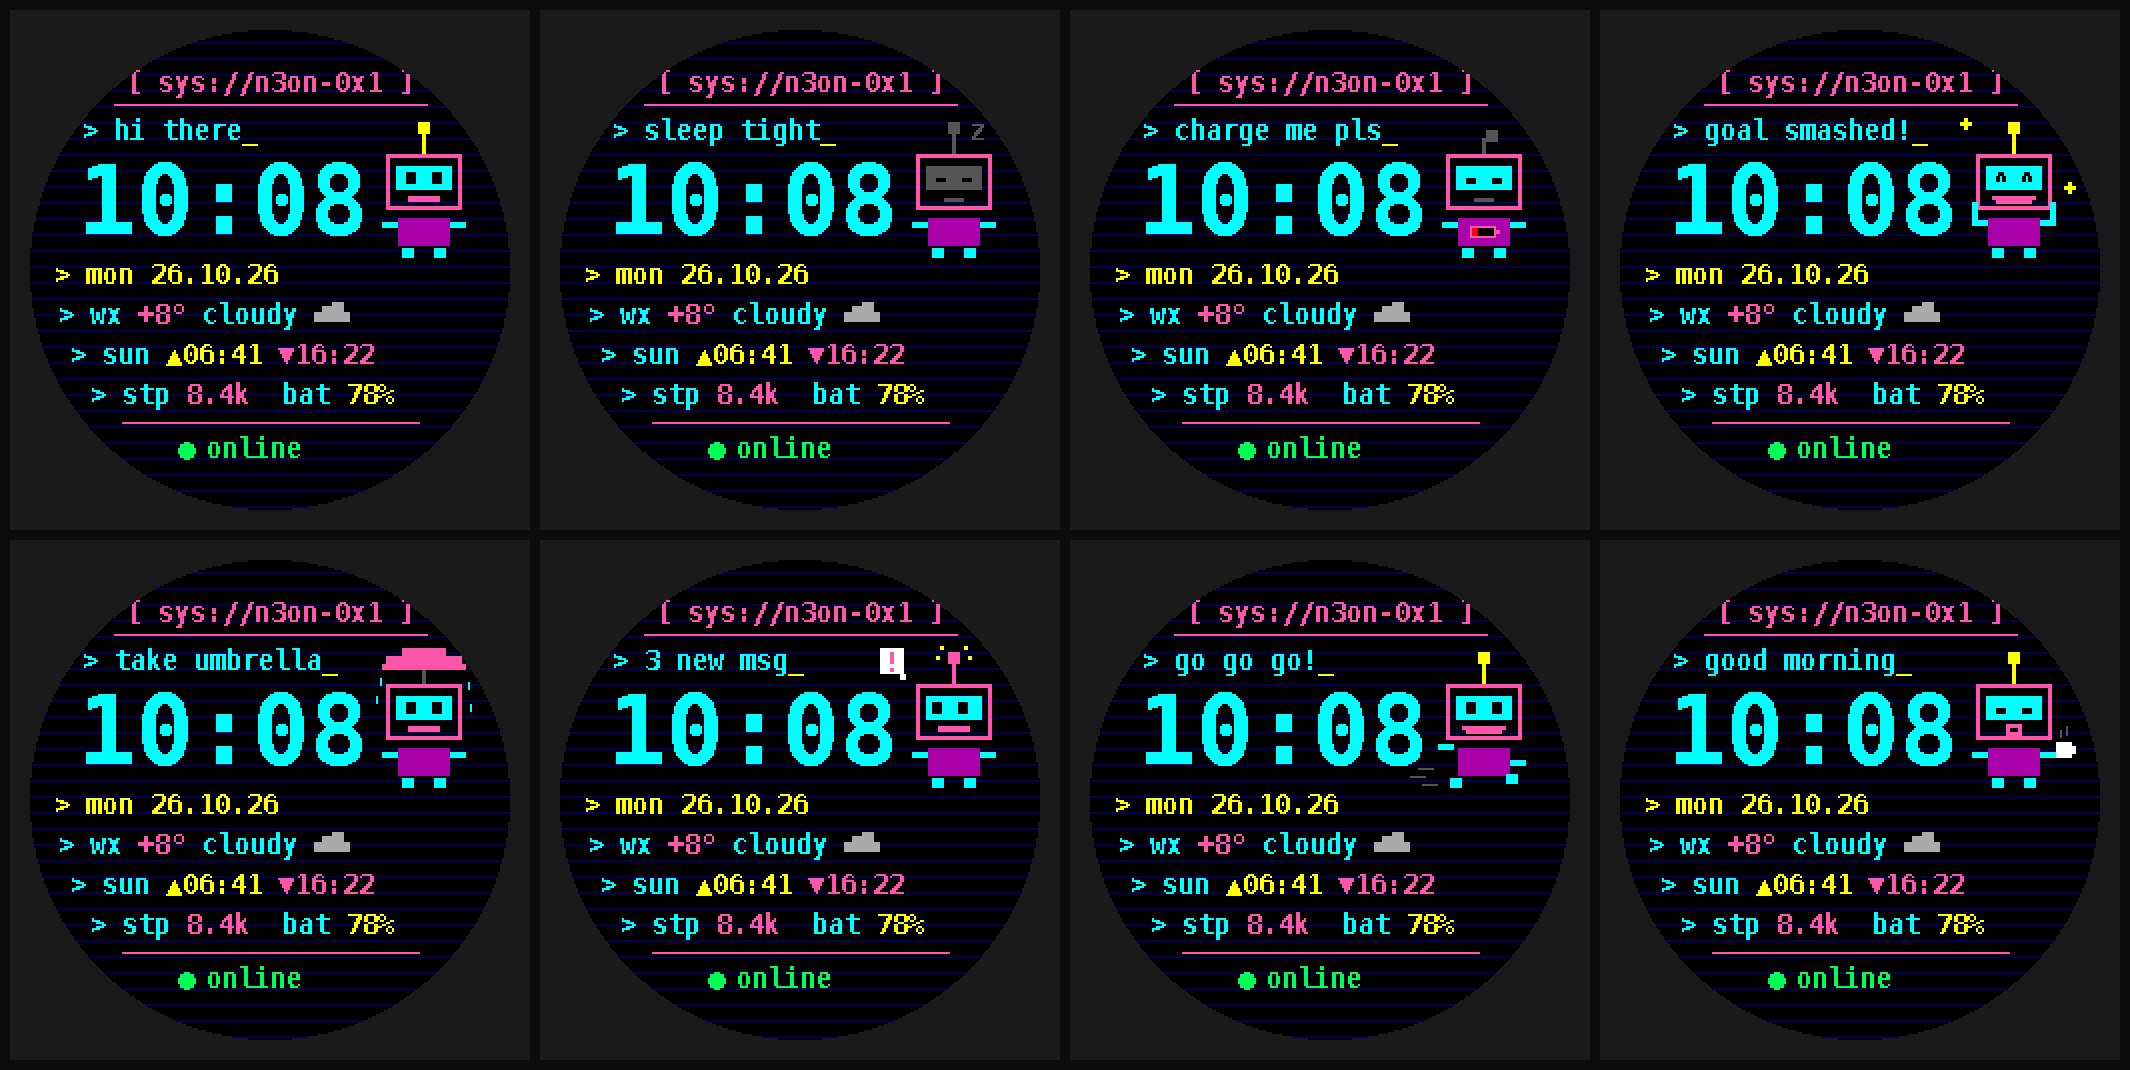
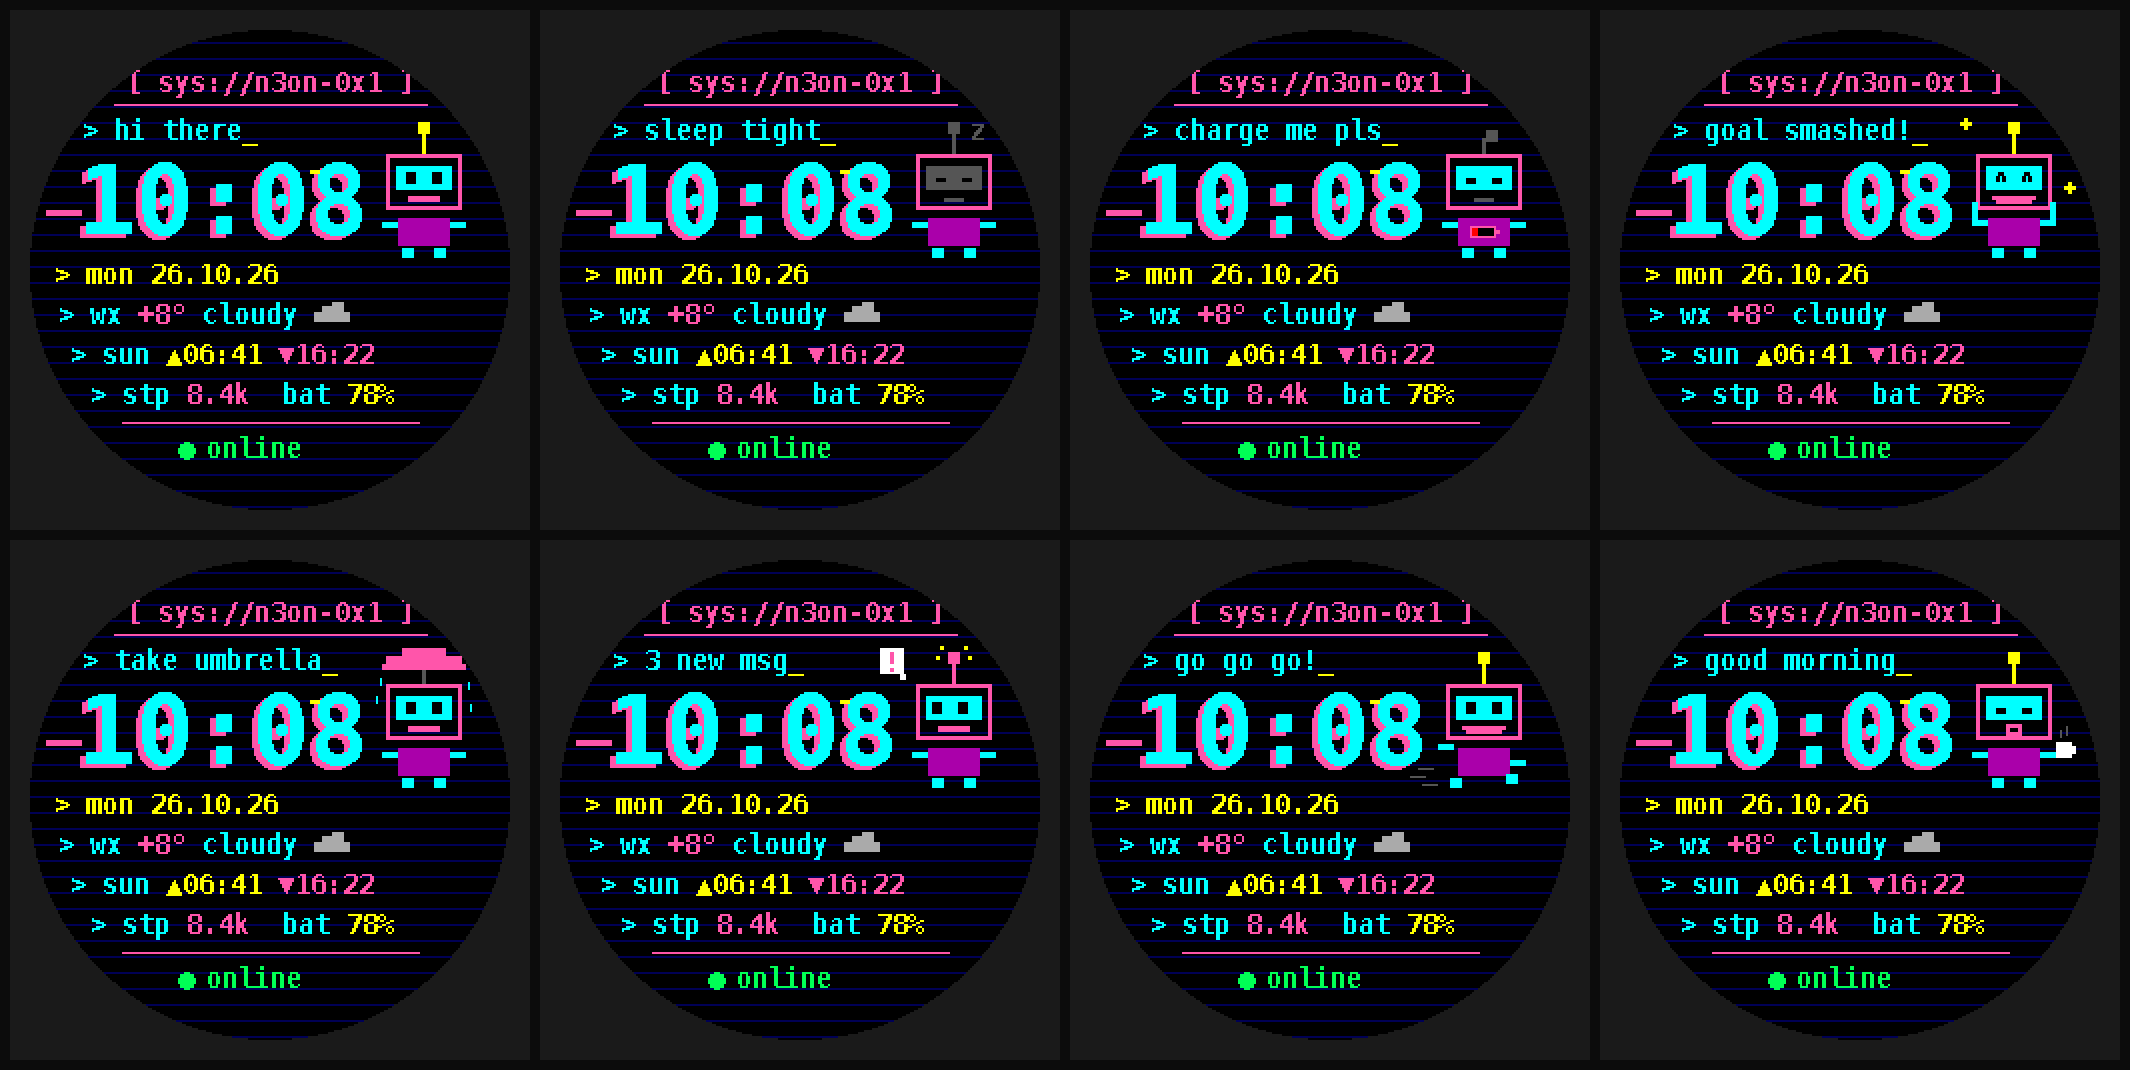
Glitch setting: always (default) / on wrist raise / off
Claude-Session: https://claude.ai/code/session_01UPPXaJYamaHbEYryx3rSdp

diff --git a/scripts/preview_n3on.py b/scripts/preview_n3on.py
@@ -160,7 +160,7 @@ def holiday_overlay(d, x, y, pal, holiday, mood):
 
 
 def face(pal, time="21:24", mood="night", wx=("+8°", "cloudy"), raw=False, holiday=None,
-         phrase="hi there", glitch=False, online=True):
+         phrase="hi there", glitch=True, online=True):
     img = Image.new("RGB", (240, 240), (0, 0, 0))
     d = ImageDraw.Draw(img)
     hc = pal is PALS[3]

diff --git a/templates/n3on-terminal/store/listing.md b/templates/n3on-terminal/store/listing.md
@@ -18,7 +18,7 @@
 ## EN (default)
 **Short:** Cyberpunk terminal watch face with a pixel bot that reacts to your day.
 
-A retro-futuristic command line on your wrist. Neon time with a glitch burst on wrist raise, scanlines and a tiny original pixel robot that sleeps after sunset, cheers when you hit your step goal and looks tired when the battery is low.
+A retro-futuristic command line on your wrist. Glitched neon time, scanlines and a tiny original pixel robot that sleeps after sunset, cheers when you hit your step goal and looks tired when the battery is low.
 
 Shows:
 • Time (follows your 12/24h setting) and date
@@ -33,7 +33,7 @@ Shows:
 
 Settings (Garmin Connect app → Connect IQ):
 • Themes: Neon, Amber CRT, Green terminal, High contrast
-• Scanlines on/off, glitch on/off, bot on/off, bot emotions on/off, holiday looks on/off
+• Scanlines on/off, glitch (always / on wrist raise / off), bot on/off, bot emotions on/off, holiday looks on/off
 • What the bot says (auto / my phrase / mixed), bot language, my phrase, typing animation
 • Latitude/Longitude for sunrise and sunset (0 = automatic)
 
@@ -49,7 +49,7 @@ Not affiliated with or endorsed by Garmin.
 ## PL
 **Krótko:** Cyberpunkowa tarcza w stylu terminala z pikselowym robotem, który reaguje na Twój dzień.
 
-Retro-futurystyczny wiersz poleceń na nadgarstku. Neonowy czas z efektem glitch po podniesieniu ręki, linie skanowania i mały, oryginalny pikselowy robot: zasypia po zachodzie słońca, cieszy się po osiągnięciu celu kroków i jest zmęczony przy słabej baterii.
+Retro-futurystyczny wiersz poleceń na nadgarstku. Neonowy czas z efektem glitch, linie skanowania i mały, oryginalny pikselowy robot: zasypia po zachodzie słońca, cieszy się po osiągnięciu celu kroków i jest zmęczony przy słabej baterii.
 
 Wyświetla:
 • Godzinę (zgodnie z ustawieniem 12/24 h) i datę
@@ -62,7 +62,7 @@ Wyświetla:
 • N3o mówi: krótkie zdania reagujące na Twój dzień, wpisywane po podniesieniu ręki (EN, PL, UA, JA) lub Twoje własne
 • Motyw wysokiego kontrastu na mocne słońce i słabszy wzrok
 
-Ustawienia (Garmin Connect → Connect IQ): 4 motywy (Neon, Amber CRT, Green terminal, wysoki kontrast); linie skanowania, glitch, robot, emocje robota, stroje świąteczne — wł./wył.; co mówi robot (auto / moje zdanie / mieszane), język robota, własne zdanie, animacja pisania; szerokość/długość geograficzna dla wschodu i zachodu (0 = auto). Jeśli widać „no gps fix”, uruchom raz dowolną aktywność z GPS lub wpisz współrzędne.
+Ustawienia (Garmin Connect → Connect IQ): 4 motywy (Neon, Amber CRT, Green terminal, wysoki kontrast); linie skanowania, robot, emocje robota, stroje świąteczne — wł./wył.; glitch (zawsze / po podniesieniu ręki / wył.); co mówi robot (auto / moje zdanie / mieszane), język robota, własne zdanie, animacja pisania; szerokość/długość geograficzna dla wschodu i zachodu (0 = auto). Jeśli widać „no gps fix”, uruchom raz dowolną aktywność z GPS lub wpisz współrzędne.
 
 Oszczędza baterię: animacje tylko, gdy zegarek jest aktywny.
 
@@ -75,7 +75,7 @@ Projekt niezależny, niepowiązany z firmą Garmin.
 ## DE
 **Kurz:** Cyberpunk-Terminal-Zifferblatt mit einem Pixel-Roboter, der auf deinen Tag reagiert.
 
-Eine retro-futuristische Kommandozeile am Handgelenk. Neon-Uhrzeit mit Glitch-Effekt beim Handgelenk-Heben, Scanlines und ein kleiner, eigens gestalteter Pixel-Roboter: Er schläft nach Sonnenuntergang, jubelt bei erreichtem Schrittziel und wirkt müde bei schwachem Akku.
+Eine retro-futuristische Kommandozeile am Handgelenk. Neon-Uhrzeit mit Glitch-Effekt, Scanlines und ein kleiner, eigens gestalteter Pixel-Roboter: Er schläft nach Sonnenuntergang, jubelt bei erreichtem Schrittziel und wirkt müde bei schwachem Akku.
 
 Anzeige:
 • Uhrzeit (folgt der 12/24-h-Einstellung) und Datum
@@ -88,7 +88,7 @@ Anzeige:
 • N3o spricht: kurze Sätze passend zu deinem Tag, beim Handgelenk-Heben eingetippt (EN, PL, UA, JA) oder dein eigener Satz
 • Hochkontrast-Theme für grelle Sonne und schwächere Augen
 
-Einstellungen (Garmin Connect → Connect IQ): 4 Themes (Neon, Amber CRT, Green terminal, Hochkontrast); Scanlines, Glitch, Roboter, Roboter-Emotionen, Feiertags-Looks — ein/aus; was der Roboter sagt (auto / mein Satz / gemischt), Sprache, eigener Satz, Tipp-Animation; Breiten-/Längengrad für Sonnenauf- und -untergang (0 = automatisch). Steht „no gps fix“ da: einmal eine GPS-Aktivität starten oder Koordinaten eintragen.
+Einstellungen (Garmin Connect → Connect IQ): 4 Themes (Neon, Amber CRT, Green terminal, Hochkontrast); Scanlines, Roboter, Roboter-Emotionen, Feiertags-Looks — ein/aus; Glitch (immer / beim Handgelenk-Heben / aus); was der Roboter sagt (auto / mein Satz / gemischt), Sprache, eigener Satz, Tipp-Animation; Breiten-/Längengrad für Sonnenauf- und -untergang (0 = automatisch). Steht „no gps fix“ da: einmal eine GPS-Aktivität starten oder Koordinaten eintragen.
 
 Akkuschonend: Animationen nur, wenn die Uhr aktiv ist.
 
@@ -101,7 +101,7 @@ Unabhängiges Projekt, nicht mit Garmin verbunden.
 ## UK
 **Коротко:** Кіберпанк-циферблат у стилі терміналу з піксельним роботом, який реагує на ваш день.
 
-Ретрофутуристичний командний рядок на зап'ясті. Неоновий час з glitch-ефектом при піднятті руки, scanlines і маленький оригінальний піксельний робот: засинає після заходу сонця, радіє, коли виконано ціль кроків, і втомлений, коли батарея сідає.
+Ретрофутуристичний командний рядок на зап'ясті. Неоновий час з glitch-ефектом, scanlines і маленький оригінальний піксельний робот: засинає після заходу сонця, радіє, коли виконано ціль кроків, і втомлений, коли батарея сідає.
 
 Показує:
 • Час (за налаштуванням 12/24 год) і дату
@@ -114,7 +114,7 @@ Unabhängiges Projekt, nicht mit Garmin verbunden.
 • N3o говорить: короткі фрази, що реагують на ваш день, друкуються при піднятті руки (EN, PL, UA, JA) або ваша власна фраза
 • Тема високого контрасту для яскравого сонця та слабшого зору
 
-Налаштування (Garmin Connect → Connect IQ): 4 теми (Neon, Amber CRT, Green terminal, високий контраст); scanlines, glitch, робот, емоції робота, святкові образи — увімк./вимк.; що каже робот (авто / моя фраза / змішано), мова робота, власна фраза, анімація друку; широта/довгота для сходу й заходу сонця (0 = авто). Якщо видно «no gps fix», запустіть будь-яку GPS-активність або введіть координати.
+Налаштування (Garmin Connect → Connect IQ): 4 теми (Neon, Amber CRT, Green terminal, високий контраст); scanlines, робот, емоції робота, святкові образи — увімк./вимк.; glitch (завжди / при піднятті руки / вимк.); що каже робот (авто / моя фраза / змішано), мова робота, власна фраза, анімація друку; широта/довгота для сходу й заходу сонця (0 = авто). Якщо видно «no gps fix», запустіть будь-яку GPS-активність або введіть координати.
 
 Економить батарею: анімація лише коли годинник активний.
 

diff --git a/README.md b/README.md
@@ -77,7 +77,7 @@ See [bench/README.md](bench/README.md).
 | `.claude/skills/connectiq-watchface/references/pitfalls.md` | Compiler, runtime and tooling gotchas |
 
 ## N3on Terminal (reference face)
-A cyberpunk terminal face with neon time (a glitch burst on wrist raise), weather, sunrise and sunset (computed on the watch), steps, battery, phone status, and an original pixel bot that sleeps at night, cheers at your step goal and looks tired at low battery. It has 4 themes (including High contrast) and 12 phone settings, needs no permissions and collects no data.
+A cyberpunk terminal face with glitched neon time (always, on wrist raise or off), weather, sunrise and sunset (computed on the watch), steps, battery, phone status, and an original pixel bot that sleeps at night, cheers at your step goal and looks tired at low battery. It has 4 themes (including High contrast) and 12 phone settings, needs no permissions and collects no data.
 
 N3o has 8 emotions, picked automatically from data the face already reads: normal, night, low battery, step goal, rain, notification, running and morning.
 

diff --git a/templates/n3on-terminal/README.md b/templates/n3on-terminal/README.md
@@ -1,6 +1,6 @@
 # N3on Terminal — циферблат для Garmin Forerunner 945
 
-Cyberpunk-терминал: неоновое время (glitch при подъёме руки), говорящий пиксельный бот N3o (8 эмоций, праздничные образы, фразы на EN/PL/UA/JA), погода, восход/закат, шаги, батарея, статус телефона.
+Cyberpunk-терминал: неоновое время с glitch (всегда / при подъёме руки / выкл.), говорящий пиксельный бот N3o (8 эмоций, праздничные образы, фразы на EN/PL/UA/JA), погода, восход/закат, шаги, батарея, статус телефона.
 
 ## Структура
 - `source/N3onView.mc` — отрисовка и логика
